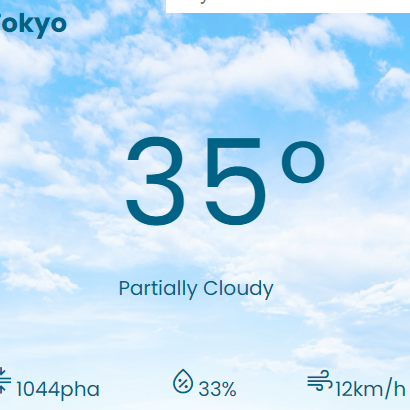
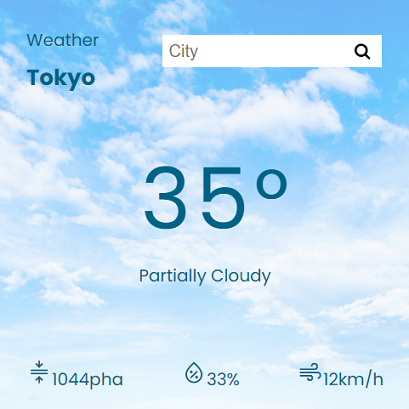
Weather app update

diff --git a/project.html b/project.html
@@ -61,7 +61,7 @@
                             <p>Weather</p>
                             <h3 id="show-city">Tokyo</h2>
                             <div class="search-container">
-                                <input value="" type="text" placeholder="City" id="city" name="city" required>
+                                <input value="" type="text" placeholder="City" id="city" name="city">
                                 <button type="submit" id="search-button"><i class="fa fa-search"></i></button>
                             </div>
                         </div>

diff --git a/resources/js/weather.js b/resources/js/weather.js
@@ -68,10 +68,13 @@ const firstLetterToUpperCase = (string) => {
     return string.charAt(0).toUpperCase() + string.slice(1);
 }
 
-searchButton.addEventListener('click', searchForWeather);
+searchButton.addEventListener('click', () => {
+    if (inputField.value !== "")
+        searchForWeather();
+});
 
 inputField.addEventListener("keypress", (event) => {
-    if (event.key === "Enter") {
+    if (event.key === "Enter" && inputField.value !== "") {
         event.preventDefault();
         searchButton.click();
         inputField.value = "";

diff --git a/resources/css/weather.css b/resources/css/weather.css
@@ -12,7 +12,7 @@ h1, h2, h3 {
 
 h2 {
   text-align: left;
-  font-size: 5rem!important;
+  font-size: 6rem!important;
   margin-bottom: 0;
 }
 
@@ -96,5 +96,5 @@ h2 {
     list-style-type: none;
     justify-content: space-between;
     align-items: center;
-    padding-top: 20%;
+    padding-top: 15%;
   }
